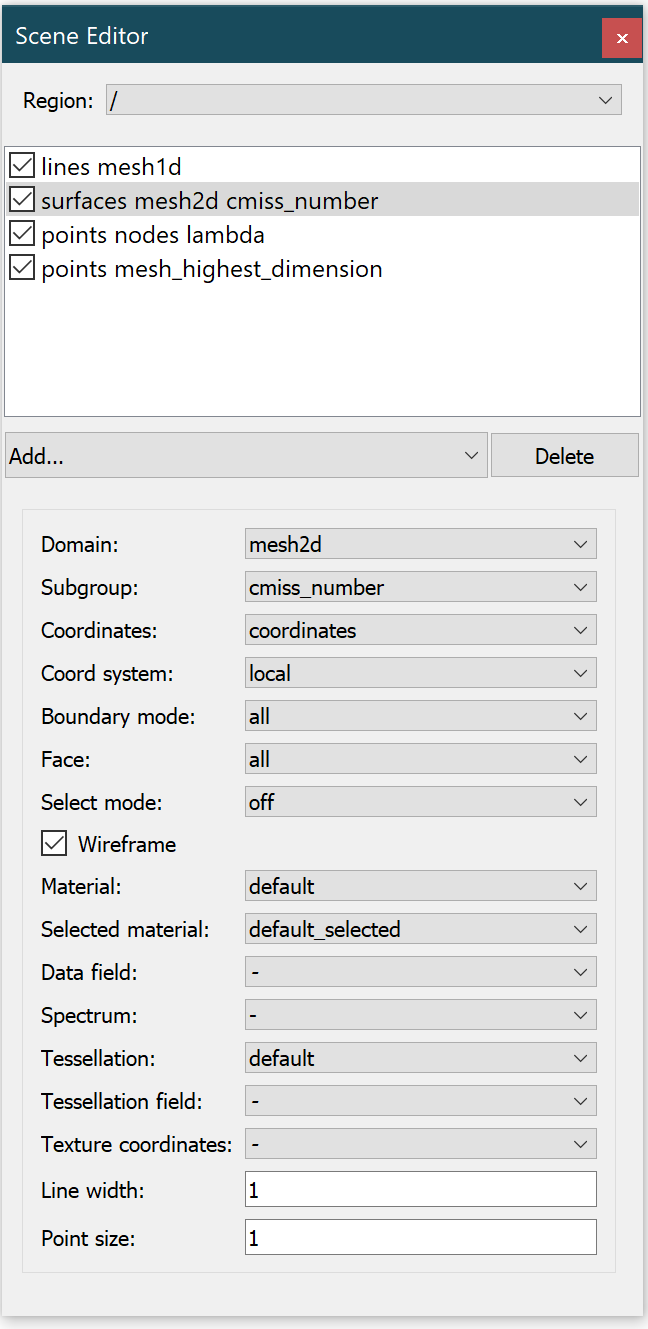
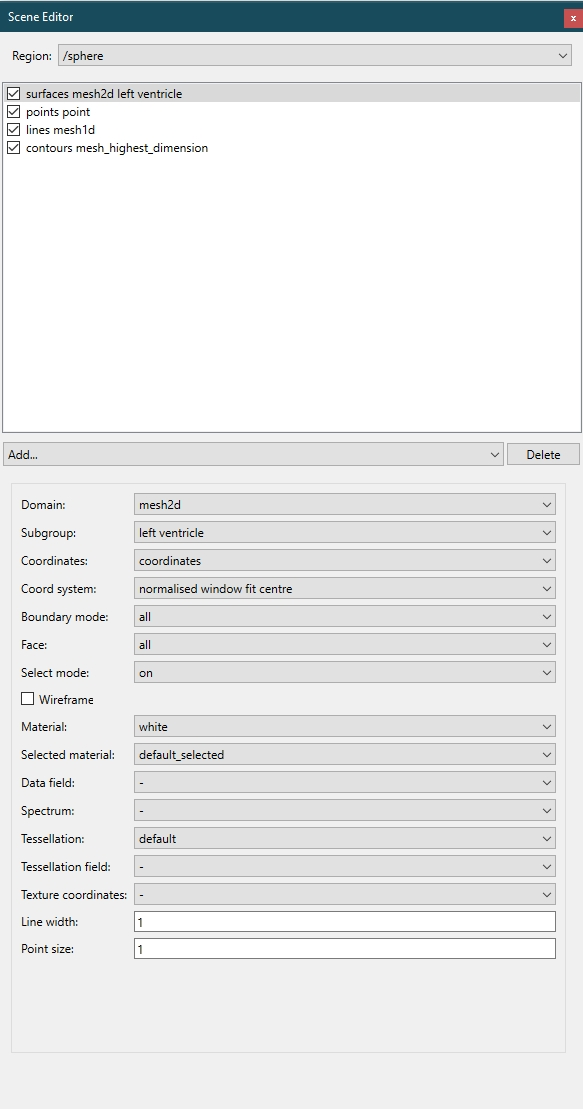
Update documentation

Changed region(s): [[0.0, 0.0, 1.0, 1.0]]

diff --git a/docs/graphicseditorwidget.rst b/docs/graphicseditorwidget.rst
@@ -16,30 +16,34 @@ The range of editable properties will vary depending on the type of graphics cur
 
    Graphics editor widget.
 
-This widget usually been used with Scene Editor Widget, the content changes depending on the type of graphics selected in graphic list on Scene Editor Widget.
+This widget is normally used within the Scene Editor Widget. The content changes depending on the type of graphics selected in graphic list on Scene Editor Widget.
 
 .. _curl: http://www.math.umn.edu/~nykamp/m2374/readings/divcurl/
 
 General description of graphics
 -------------------------------
 
-graphics are the building blocks used to create any visualization displayed in the :ref:`sceneviewer widget <Sceneviewer-Widget>`. 
-They are created, edited, re-ordered and deleted from within the :ref:`scene editor widget <Scene-Editor-Widget>`, or via the command line. Most graphics have the following settings in common:
+Graphics are the building blocks used to create any visualization displayed in the :ref:`sceneviewer widget <Sceneviewer-Widget>`. 
+They are created, edited, re-ordered and deleted from within the :ref:`scene editor widget <Scene-Editor-Widget>`, or via the Zinc API. Most graphics have the following settings in common:
 
-* Coordinate field: This setting has a drop-down menu showing a list of fields that can be selected as the coordinate field for the selected graphic.
+* Domain: The model domain ``point/nodes/datapoints/mesh1d/mesh2d/mesh3d`` which graphics are built from. Some graphics types support multiple domain types. Special domain ``mesh highest dimension`` uses the highest dimension mesh present in the region.
+
+* Subgroup: Optional group or field returning non-zero/true to limit graphics display to.
+ 
+* Coordinate field: This setting has a drop-down menu showing a list of fields that can be selected as the coordinate field for the selected graphic. This is usually a geometric coordinate field from the model, but any field with up to 3 real components is usable and can be quite powerful: for example, using the principal strain field (over elements points) plots a strain space diagram.
 
 * Coordinate System: This setting can be used to render the graphic according to a range of different coordinate systems. This is useful for creating "static" overlays of data on visualizations.
 
-* Boundary mode: This drop-down menu allows you to select a boundary, and automatically only render glyphs on the select boundary of a mesh.
+* Boundary mode: This drop-down menu allows you to select a boundary, and automatically only render glyphs on the select boundary of a mesh. Options allow display on boundary or interior of mesh or subgroup.
 
 * Select mode: This drop-down menu allows you to select different selection behaviours for the graphic:
 
   * select_on - The default setting; graphics are able to be selected and selected items are highlighted by rendering in the *default_selected* material.
   * no_select - No selection or highlighting of the graphic.
-  * draw_selected - only selected items are drawn.
+  * draw_selected - only selected items are drawn, in the *default_selected* material.
   * draw_unselected - only unselected items are drawn.
 
-* Wireframe: This checkbox will control whether only the wireframe of the mesh is rendered.
+* Wireframe: This checkbox, if checked shows surface graphics as a wireframe mesh, otherwise shaded surfaces are shown.
 
 * Material: This drop-down menu allows you to select which material should be used to render the graphic. Materials are defined and edited in the :ref:`material editor Widget <Material-Editor-Widget>`.
 
@@ -47,19 +51,15 @@ They are created, edited, re-ordered and deleted from within the :ref:`scene edi
 
 * Data: This setting has a drop-down menu, allowing you to select which field will be mapped on to the graphic. This enables you to colour the graphic according to the values of some field, for example. The check box also activates the *spectrum* drop-down menu.
 
-* Spectrum: This drop-down menu is used to select which spectrum is to be used to colour the graphical element according to the field selected in the *data* setting. Spectra are edited in the :ref:`spectrum editor widget <Spectrum-Editor-Widget>`.
+* Spectrum: This drop-down menu is used to select which spectrum is to be used to colour the graphical element according to the field selected in the *data* setting. Spectrums are edited in the :ref:`spectrum editor widget <Spectrum-Editor-Widget>`.
 
-* Tessellation: Tessellation settings are used to set the level of detail of an object.
+* Tessellation: Tessellation settings are used to set the number of polygons or line segments used to approximate curves in the object. Higher tessellations give greater image quality at the expense of rendering time.
 
-.. note::
+* Tessellation field: This setting has a drop-down menu showing a list of fields that can be selected as the tessellation field for the selected graphic. This approximates element curves with the native resolution of this field multiplied by the resolution from the Tessellation.
 
-   The only graphics which do not have a tessellation setting are *node points*, *data points*, and *point*.
+* Line width: This value sets the width of line graphics in pixels including line glyphs.
 
-* Tessellation field: This setting has a drop-down menu showing a list of fields that can be selected as the tessellation field for the selected graphic.
-
-* Line width: This line editor allows you to set render line width.
-
-* Point size: This line editor allows you to set render point size.
+* Point size: This value sets the size of point glyphs in pixels.
 
 .. _types-of-graphics:
 
@@ -68,38 +68,86 @@ The types of graphics
 
 * **point**
 
-  Point graphics are used to add a single glyph to the scene. 
+  Points are created in one of 4 sub-types which also sets the associated *Domain*:
 
-  * **node points**
+  * **point** - Show a single point in the scene. Assumes coordinate 0, 0, 0 if no coordinate field is specified.
+  
+  * **node points** - Visualize each node point, usually representing vertexes on a mesh.
 
-    Node points are used to visualize nodes. You can use glyphs to represent node points. There are a range of built-in glyphs in Zinc, and it is possible to create custom glyphs as well. 
-    *Node points* graphics have the following settings in addition to the common ones listed above:
+  * **data points** - Visualize the second set of points, usually representing point data separate from the model.
 
-  * **data points**
+  * **element points** - Visualize points sampled across elements of 1 to 3 dimensions.
 
-    Data points are used to visualize data points. Like node points, they can be represented using glyphs. 
-    They have the same settings as *node points*.
+  Points graphics have additional **Point attributes** specifying:
 
-  * **element points**
+  * The *Glyph* used to visualize the point, a selectable graphic e.g. point, sphere, cube, arrows etc.
+  * The *Base size* of the glyph prior to scaling.
+  * The *Scale field* orienting and scaling the glyph.
+  * The *Scaling* values multiplying the scale field.
+  * The *Signed scale field* multiplying the scale but allowing e.g. inward/outward arrows with repeat mode mirror.
+  * The *Glyph offset* allows the glyph origin to be offset relative to the scaled axes at the point.
+  * The *Repeat mode* allows multiple glyphs to be rendered to make custom glyphs by mirroring or laying out on 2 or 3 axes.
+  * The *Label field* specifies a field whose values are written beside the point. Use special field cmiss_number to show node/datapoint/element numbers.
+  * The *Label text* allows fixed text strings to be written prior to the label field, with up to 3 strings for different glyph repeat modes.
+  * The *Label text offset* allows the label origin to be offset relative to the scaled axes at the point.
+  * The *Font* allows different fonts to be chosen for the labels, where supported.
 
-    Element points are used to visualize the discretized points within an element. Elements may be 1, 2 or 3 dimensional, in which case the element points are spaced along the line, across the surface, or throughout the volume according to the chosen *tessellation* object . They have the following specific settings:
+  Points on mesh domains have additional **Sampling attributes**:
+
+  * *Sampling mode* controls number and location of sampled points in terms of tessellation:
+    * *cell centres* specifies points at centres of tessellation 'cells'.
+    * *cell corners* specifies points at corners of tessellation 'cells'.
+    * *cell poisson* randomly generates points in the tessellation 'cells' according to the Density field sampled at the centre along with the volume/surface area/length.
+    * *set location* uses a single set element location.
+    * *gaussian quadrature* specifies points at standard Gaussian quadrature locations for the element shape and tessellation, currently limited to be up to 4 points in each direction.
+  * *Sample location* specifies a single comma-separated element 'xi' coordinates, used with sampling mode *set location*.
+  * *Density field* specifies a field giving the density for use with sampling mode *cell* poisson.
 
 * **lines**
 
-  Lines are used to visualize 1D elements, or the edges of 2D or 3D elements. They are simple, unshaded lines that have a fixed, specified width. They have the following specific settings:
+  Lines are used to visualize 1D elements, or the edges of 2D or 3D elements. They may be drawn as simple unshaded lines of fixed width, or rendered as surfaces with extruded shapes.
+
+  Lines have the following **Line attributes**:
+
+  * *Shape*: This drop down menu allows you to select the profile of the line: line, ribbon, circle extrusion or square extrusion, with the following only applying to non-line shapes:
+  * *Base size*: This base lateral size of the cross section of the line shape, formatted as number*number.
+  * *Scale field*: Optional field to scale lateral size of the cross section of the line shape.
+  * *Scaling*: Real-valued multiplier on scale field, formatted as number*number.
 
 * **contours**
 
-  Contours are used to visualize the same things as lines. They are shaded contours of a specified radius. They have the following specific settings:
+  Contours show surfaces (with Domain ``mesh3d``) or lines (with Domain ``mesh2d``) at which the selected Scalar field has the chosen fixed values ("iso-values"), alternatively known as iso-surfaces and iso-lines.
+
+  Contours have the following **Contour attributes**:
+
+  * The *Scalar field* specifies the single-valued real field whose iso-values are to be rendered.
+  * The *Range number*, if checked allows the number of isovalues to be specified across a range. If not checked a list of fixed values is specified.
+  * The *Isovalues* contains a comma-separated list of iso-values to use, either 2 representing the minimum and maximum if a range is used (and values are sampled regularly between them) or a variable list of a range is not used.
 
 * **surfaces**
 
-  Surfaces are used to visualize 2D elements or the faces of 3D elements. They are shaded surfaces of zero thickness that are automatically shaped according to the nodes defining the element they represent. Their level of detail is specified per surface by choosing a *tessellation* object. They have the following specific settings:
+  Surfaces are used to visualize 2D elements or the faces of 3D elements.
+
+  Surfaces have no additional settings.
 
 * **streamlines**
 
-  Streamlines are a special graphic for visualizing *vector* fields - for example, a fluid flow solution. They can be used to visualize 3, 6 or 9 component vector fields within a 3 dimensional element. 
-  Streamlines will align along their length according to the first vector of a vector field, and across their "width" (eg the width of the *ribbon* or *rectangle* streamline types) to the second vector. 
-  For single vector (3 component) vector fields, the width of the streamlines will align to the curl_ of the vector.
+  Streamlines visualize the path a point follows if it tracks along a vector field over the domain, for example, the velocity in a fluid flow solution.
 
-  Note that streamlines can be quite expensive to compute; changes to streamline settings in the :ref:`scene editor <Scene-Editor-Widget>` can take several seconds to appear in the 3D window, especially for complex scenes.
+  Streamlines use both **Line attributes** and **Sampling attributes** defined earlier.
+
+  Streamlines have the following **Streamline attributes**:
+
+  * The *Vector field* specifies the field to track along, either a 3, 6 or 9 component vector fields for a 3 dimensional mesh. Streamlines align along their length according to the first vector of a vector field, and across their "width" (eg the width of the *ribbon* or *extruded square* line shape) to the second vector. For single vector (3 component) vector fields, the width direction of the shape rotates according to the curl of the vector field. Tip: Using a fibre field allows muscle fibre orientations to be viewed with ribbon or extruded square shape.
+  * *Track length* specifies the distance the streamline is tracked along before finishing.
+  * *Track direction* specifies forward or reverse tracking.
+  * *Colour data* allows special colouring modes:
+    * *field* uses the regular *Data field* sampled along its length, at the centre of the shape.
+    * *magnitude* gives the magnitude of the vector in the primary direction.
+    * *travel time* integrates the time/distance along the streamline to each point.
+
+API
+---
+
+.. autoclass:: cmlibs.widgets.graphicseditorwidget.GraphicsEditorWidget
+   :members:

diff --git a/docs/spectrumeditorwidget.rst b/docs/spectrumeditorwidget.rst
@@ -4,7 +4,7 @@
 Spectrum Editor Widget
 ======================
 
-The **Spectrum Editor Widget** is a control to add, remove, and edit spectra.
+The **Spectrum Editor Widget** is a control to add, remove, and edit spectrums.
 
 .. _fig-cmlibs-widgets-spectrum-editor-widget:
 
@@ -17,9 +17,9 @@ The **Spectrum Editor Widget** is a control to add, remove, and edit spectra.
 Spectrum list
 -------------
 
-The spectrum list shows all the currently defined spectra; it will always contain the default spectrum if no others have been defined.
-Three buttons at the top of the window allow you to create, delete, or rename spectra.
-Just below the list of spectra are some controls that allow you to set some of the general properties of the selected spectrum.
+The spectrum list shows all the currently defined spectrums; it will always contain the default spectrum if no others have been defined.
+Three buttons at the top of the window allow you to create, delete, or rename spectrums.
+Just below the list of spectrums are some controls that allow you to set some of the general properties of the selected spectrum.
 The autorange button automatically sets the minimum and maximum values of the selected spectrum, according to the smallest and largest values it has been applied to in the scene editor.
 For example, if the default spectrum has been used to colour a temperature field in the default scene, and that field has values ranging from 0 to 100 degrees Celsius,
 pressing the autorange button will set the minimum and maximum values (in the Spectrum range settings - see below) of the selected spectrum to 0 and 100 respectively.
@@ -35,7 +35,7 @@ Preview panel
 This panel shows a horizontal bar, coloured using the selected spectrum.
 The bar also shows the range that the spectrum is currently set to, using a series of numbered labels.
 Clicking in the preview panel changes the number of these labels from 4 to 10 to 2, then cycles through these values.
-Currently the preview panel can not display multi-component spectra.
+Currently the preview panel can not display multi-component spectrums.
 
 Settings editor
 ---------------
@@ -43,12 +43,12 @@ Settings editor
 The settings editor is where each spectrum is set up.
 It contains a number of controls.
 
-* Spectrum component list: The top of this list has four buttons; Add, Delete, Up, and Down. Below these buttons is a list of the components that make up the selected spectrum. Spectra in cmgui can be made up of multiple components; these can be added, deleted or re-ordered using this list. Using these "sub-spectra" you are able to create spectra that have different colour ranges for different parts of the data range they cover, or spectra that have different colour ranges for different dimensions.
+* Spectrum component list: The top of this list has four buttons; Add, Delete, Up, and Down. Below these buttons is a list of the components that make up the selected spectrum. spectrums in cmgui can be made up of multiple components; these can be added, deleted or re-ordered using this list. Using these "sub-spectrums" you are able to create spectrums that have different colour ranges for different parts of the data range they cover, or spectrums that have different colour ranges for different dimensions.
 * Data component: This text box allows you to enter which data component of a multi-component field the spectrum will colour according to.
 * Spectrum range: This set of controls is used to set up the range of values the spectrum covers. The Min. and Max. text boxes allow you to enter values for the minimum and maximum values of the spectrum. There are also four check boxes that allow you to change the behaviour of a spectrum at its start and end points.
-* Colour: This drop-down menu provides a selection of pre-set colour settings that can be applied to the currently selected spectrum component. Although many of the colour ranges are fairly self-explanatory, a number of them have special features which are useful for creating specialized spectra. The contour bands and step colour settings have further settings associated with them.
+* Colour: This drop-down menu provides a selection of pre-set colour settings that can be applied to the currently selected spectrum component. Although many of the colour ranges are fairly self-explanatory, a number of them have special features which are useful for creating specialized spectrums. The contour bands and step colour settings have further settings associated with them.
 * Rainbow: This is a standard rainbow colour range.
-* Red: This is a red to black colour range. It is applied as a single "channel" of red to the spectrum; this can be used to add to other spectrum components to make multi-component spectra.
+* Red: This is a red to black colour range. It is applied as a single "channel" of red to the spectrum; this can be used to add to other spectrum components to make multi-component spectrums.
 * Green: This is a single channel green to black colour range.
 * Blue: This is a single channel blue to black colour range.
 * White to blue: This is a white to blue colour range.
@@ -57,7 +57,7 @@ It contains a number of controls.
 * Alpha: This is a single channel transparent to opaque spectrum.
 * Contour bands: This colour option creates a series of evenly spaced black bands that can be further edited to get the correct number, width and spacing desired.
 * Step: This is a colour range which has a sharp transition from saturated red to saturated green.
-* Type: This drop down menu allows you to choose between linear and log scale spectra. The Reverse check box allows you to swap the direction of the spectrum. If a log scale is selected as the type, the Exaggeration settings become available.
+* Type: This drop down menu allows you to choose between linear and log scale spectrums. The Reverse check box allows you to swap the direction of the spectrum. If a log scale is selected as the type, the Exaggeration settings become available.
 * Exaggeration: This text box allows you to specify how strongly the spectrum is exaggerated.
 * Left/Right: These radio buttons allow you to choose the direction of the exaggeration.
 * Normalised colour range: These two text boxes allow you to specify the portion of the colour range that is displayed across the chosen range of values for the spectrum component. The default values of 0 and 1 display the entire colour range, and other values allow you to choose where in the colour range the spectrum component begins and ends. For example, 0.5 and 1 would display only the upper half of the colour range; 0 and 0.5 would display only the lower half; 0.25 and 0.75 would display the middle section of the colour range.

diff --git a/docs/fieldeditorwidget.rst b/docs/fieldeditorwidget.rst
@@ -6,6 +6,10 @@ Field Editor Widget
 
 The **Field Editor Widget** is a control to add, remove, and modify fields in a region.
 
+Fields are functions mapping locations in a model to values (real, mesh location, string etc.).
+
+While interpolated finite element type fields and group fields (defining subdomains) are read from model files, all other field types can be created with this editor by selecting the function (math or other operator) and its arguments (the existing fields and other parameters it is a function of).
+
 .. _fig-cmlibs-widgets-field-editor-widget:
 
 .. figure:: _images/field-editor-widget.png
@@ -17,25 +21,32 @@ The **Field Editor Widget** is a control to add, remove, and modify fields in a 
 Field list
 ----------
 
-Above the field list, there's a region chooser. 
-The field list shows all defined fields in the selected region.
-Below the field list, two buttons allow you to add new field or delete selected field.
+Above the field list, there's a region chooser.
+
+The field list shows all defined fields in the selected region. Double clicking on a field allows it to be renamed, provided the new name is not already in use.
+
+Below the field list, two buttons allow you to add new field or delete the selected field.
+
+Clicking on Add brings up a control for selecting the type/function of the new field, and once selected the controls for setting is required source fields and arguments are shown.
+
+Clicking on Delete marks a field as unmanaged but won't necessarily remove it if it's still in use.
 
 Settings editor
 ---------------
 
 The settings editor is where each field is set up.
+
 It contains a number of controls.
 
-* Field type chooser: This drop-down menu shows the field type of the current field. It’s disabled for existing fields and enabled when creating a new field.
-* Managed checkbox: This checkbox allows you to set if the field is managed.
-* Is Coordinate checkbox: This checkbox allows you to set if the field is a coordinate.
-* Coordinate system type: This drop-down menu shows the coordinate system type of the current field.
+* Field type: This shows the field type of the current field.
+* Managed checkbox: This checkbox allows you to set if the field is managed. An unmanaged field is automatically destroyed when unused by other fields, graphics or other objects.
+* Is Coordinate checkbox: This checkbox allows you to set if the field is a coordinate. This is only supported by finite element fields.
+* Coordinate system type and focus: This drop-down menu allows selection of the coordinate system type of the current field, which affects how it is drawn by graphics; polar coordinates systems such as cylindrical and spherical are converted to rectangular cartesian coordinates for display, using a temporary *coordinate transformation* field. The focus is a positive real value scaling prolate and oblate spheroidal coordinate systems only.
 * Focus: This text box shows the focus number.
-* Name: This text box is only displayed when creating a new field, and allows you to identify the name of the field.
-* Number of source fields: This text box shows the number of source fields needed for the current type of field.
-* Source field: This drop-down menu allows you to select an existing field as a source field for a new field, only enabled when creating a new field.
-* Component indexes: This text box shows and allows you to change the component indexes of the selected field.
+* Parameters. This lists source fields, real values, component numbers etc. which must be set before the new field is created.
+* Name: This text box is only displayed when creating a new field, and allows you to set the name of the new field.
+
+The *Create* button must be clicked to complete creation of a new field.
 
 API
 ---

diff --git a/docs/materialeditorwidget.rst b/docs/materialeditorwidget.rst
@@ -4,7 +4,7 @@
 Material Editor Widget
 ======================
 
-The material editor window is where you define materials to be applied to graphical elements or objects in the graphics window.  
+The **material editor widget** enables interactive creation and editing of graphical materials which are used to control the colour and shading of graphics in 3-D visualizations.
 
 .. _fig-cmlibs-widgets-material-editor-widget:
 
@@ -22,7 +22,7 @@ Along the top of the material editor window are two buttons; create and delete. 
 Below these buttons is the list of currently defined materials.
 These will contain the default materials, as well as any defined in any comfile that has been run.
 
-You can rename the material by double click it.
+You can rename the material by double-clicking on it.
 
 .. figure:: _images/material-editor-rename.png
    :alt: Material editor rename material.
@@ -48,10 +48,11 @@ Below the material list is a panel containing four colour select buttons. These 
 
 When you click the Select Colour button, a colour dialog will pop up, and you can select a colour in several ways. The background of these four buttons indicates the colour you choose.
 
-Below the colour editors is the surface editor.  This panel allows you to set the alpha, shininess, and texture properties of the surface of the material being edited.  
-The alpha value sets the transparency of the material.  The shininess sets the "tightness" or size of the specular highlights of a material; generally the higher the shininess, the smaller and harder-edged the highlights.  
-Higher shininess makes a material look glossier.  
-The surface editor also allows you to assign a texture to the material surface - this option is unavailable for now.
+Below the colour editors are further attributes controlling the rendering:
+
+* *Alpha* sets the opacity, from 0.0 (transparent) to 1.0 (opaque) with corresponding variable translucency in between. Use of alpha \< 1.0 may require use of Sceneviewer Transparency modes ``slow`` or ``order independent`` for best results.
+* *Shininess* sets the "tightness" or size of the specular highlights of a material, a value from 0.0 to 1.0. Generally, the higher the shininess, the smaller and harder-edged are the highlights. Use requires a non-black specular colour.
+* *Texture* specifies up to 4 image fields from a region to be attached to the material for texture mapping and other special effects. Note at this time facilities for loading images and shaders which use these have not been exposed.
 
 Preview panel
 -------------

diff --git a/docs/sceneeditorwidget.rst b/docs/sceneeditorwidget.rst
@@ -23,16 +23,15 @@ Below the selector is the list of currently defined graphics.
 The graphics list displays all the defined graphics in the current scene, each with a checkbox in front of it. 
 This checkbox allows you to set whether to display this graphic.
 This graphics list can also be reordered via drag and drop. Graphics at the top have higher display priority.
-The name of the graph shows the graph type followed by the domain type and subgroup field, which can be changed in the settings editor below.
+Earlier graphics are rendered first, which can affect translucency results in some modes.
+The graphics in the list are labeled by the graphics type followed by the domain and optionally the subgroup. The domain and subgroup can be changed in the graphics editor below.
 
-Below the list of graphics, there is a drop-down menu that allows you to add a new graphic, and a button to delete the selected existing graphic.
+Below the list of graphics, there is a drop-down menu that allows addition of new graphics of specified type (with convenient *points* sub-types *point, node points, data points* and *elements points* which also set the domain), and a button to *Delete* the currently selected graphics.
 
-
-Settings editor
+Graphics editor
 ---------------
-Below the graphics list is the settings editor where each graphical setting can be edited. 
-When a graphical setting is selected from the list, all of its editable properties appear in this area. 
-The range of editable properties will vary depending on the :ref:`type of graphics <types-of-graphics>` currently selected.
+Below the graphics list is the graphics editor where settings for each graphics can be edited.
+The range of settings displayed varies depending on the :ref:`type of graphics <types-of-graphics>` currently selected and sometimes also the *Domain type*.
 
 API
 ---

diff --git a/docs/index.rst b/docs/index.rst
@@ -1,7 +1,7 @@
 CMLibs Widgets
 ==============
 
-The **CMLibs Widgets** is a collection of PySide6 widgets to interface between a user interface and the Zinc library.
+The **CMLibs Widgets** is a collection of PySide6 (Qt) widgets for building user interfaces for editing and interacting with models and visualizations defined using the CMLibs Zinc library.
 
 Widgets
 -------
@@ -15,6 +15,7 @@ Widgets
    modelsourceseditorwidget
    regioneditorwidget
    sceneeditorwidget
+   sceneviewereditorwidget
    sceneviewerwidget
    spectrumeditorwidget
    tessellationwidget
